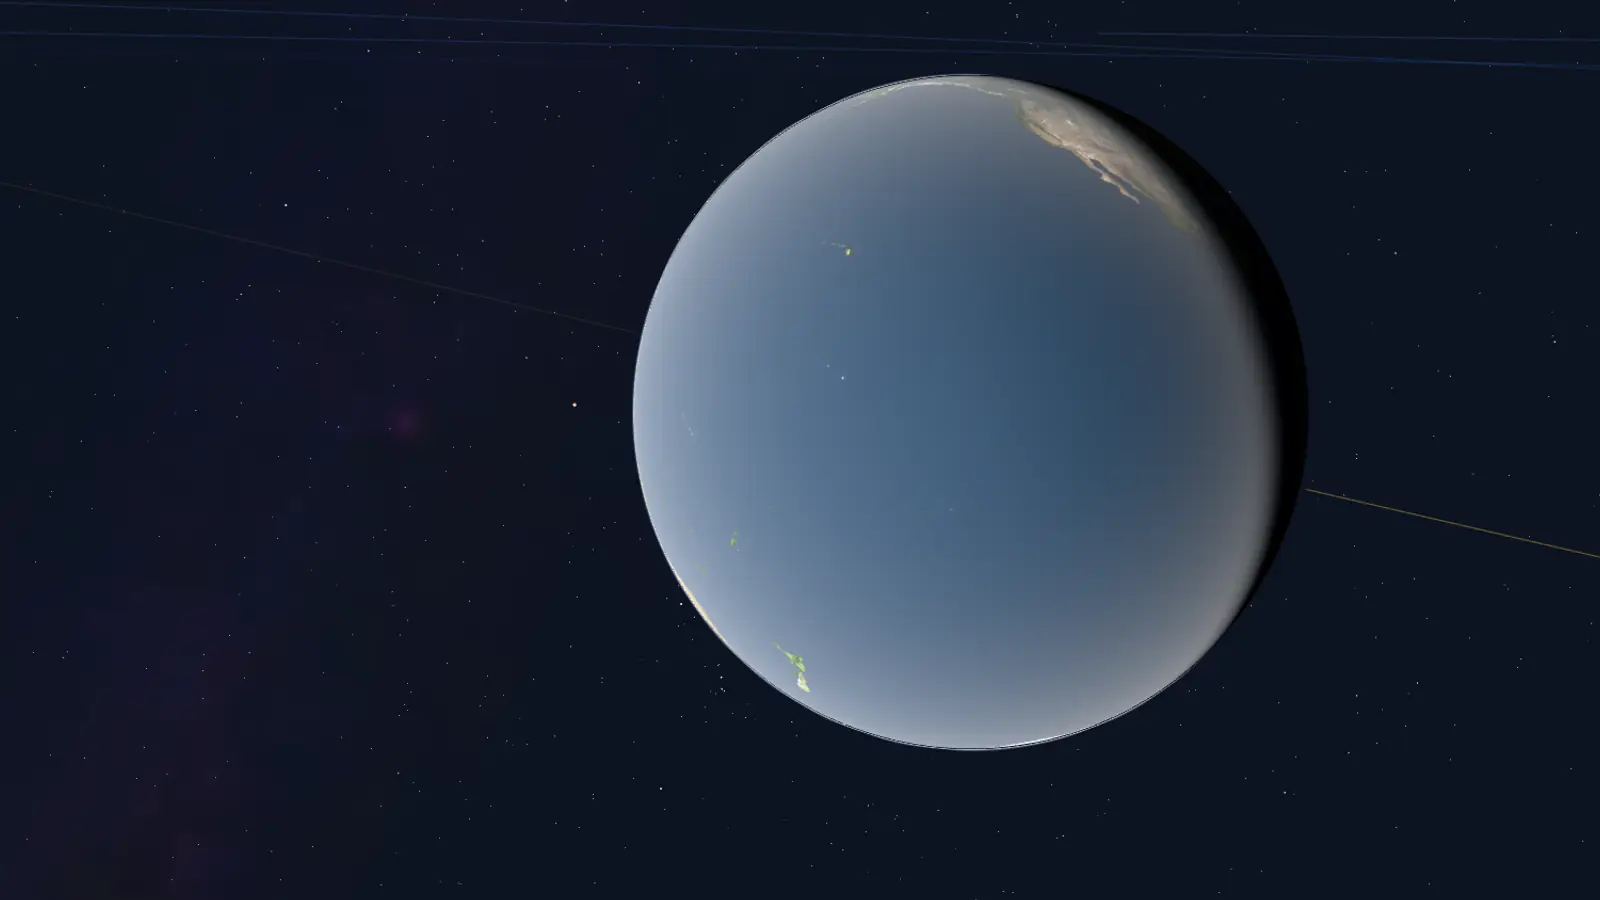
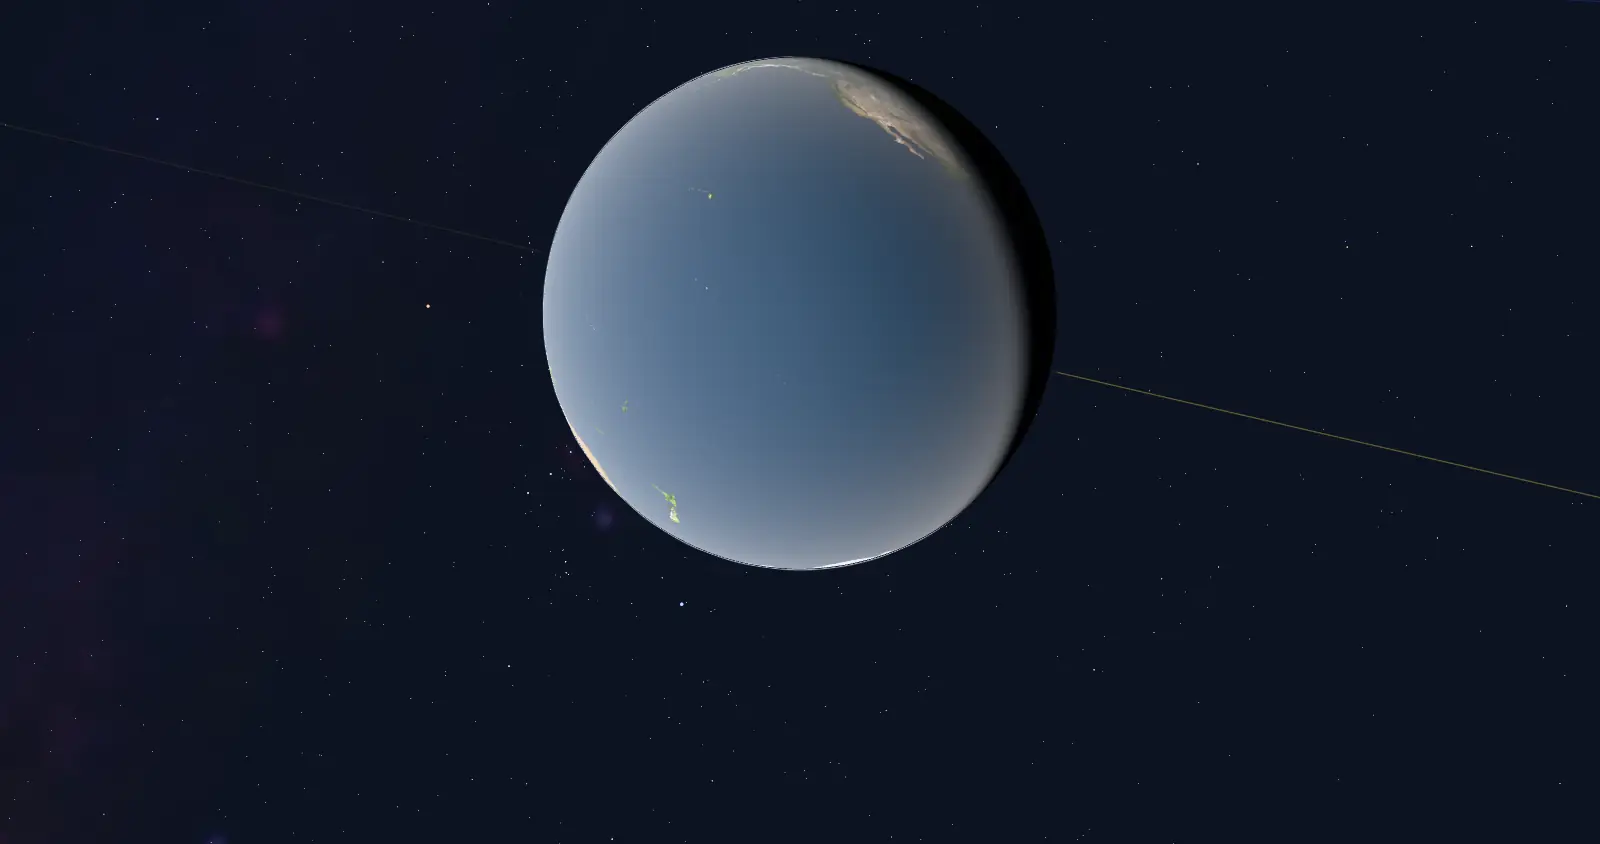
chore: pósters al tamaño del lienzo y con la maquetación de la 3c; capturas sin el puntero y más medidas
Revisión de la fase 3c (diseño 1, 2, 6, 11, 13 y 20):
- build-poster.mjs guarda el lienzo sin escalarlo (1600 × 844 y 720 × 1408): en su ventana, el
  póster y el 3D coinciden píxel a píxel. Avisa de que un cambio del encuadre obliga a regenerarlos.
- capture-ui.mjs saca el puntero de la página antes de cada captura y añade `portatil-sistema` y
  `escritorio-foco-luna`.
- measure-autoplay.mjs mide también a 390 × 844 y a 360 × 640, con el alto de la barra frente al
  reservado.

Changed region(s): [[0.3125, 0.0616, 0.8438, 0.8318]]

diff --git a/src/app/features/viewer/viewer-poster.ts b/src/app/features/viewer/viewer-poster.ts
@@ -3,19 +3,20 @@ import type { ExplorerView } from '../../scene';
 
 /**
  * Póster del explorador: lo que se ve antes de que llegue el 3D (y si no llega). Es una captura del
- * propio motor en modo de captura (`scripts/build-poster.mjs`); la fase 9 lo sustituye por el
- * definitivo. Con anchura y altura fijadas: no mueve nada al cargar (CLS).
+ * propio motor en modo de captura (`scripts/build-poster.mjs`), del tamaño del lienzo en su ventana
+ * de referencia; la fase 9 lo sustituye por el definitivo. Con anchura y altura fijadas: no mueve
+ * nada al cargar (CLS).
  */
 @Component({
   selector: 'tls-viewer-poster',
   template: `
     <picture>
-      <source media="(max-width: 640px)" [srcset]="mobile()" width="720" height="1280" />
+      <source media="(max-width: 640px)" [srcset]="mobile()" width="720" height="1408" />
       <img
         class="poster"
         [src]="desktop()"
         width="1600"
-        height="900"
+        height="844"
         alt=""
         fetchpriority="high"
         decoding="async"
